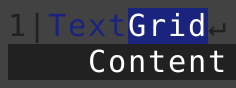
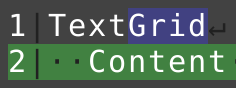
More readable textgrid

diff --git a/_gen/genwidgets.go b/_gen/genwidgets.go
@@ -66,11 +66,9 @@ func makeDrawList() []drawItem {
 
 func makeTextGrid() *widget.TextGrid {
 	grid := widget.NewTextGridFromString("TextGrid\n  Content  ")
-	grid.SetStyleRange(0, 0, 0, 3,
-		&widget.CustomTextGridStyle{FGColor: theme.PrimaryColor()})
 	grid.SetStyleRange(0, 4, 0, 7,
-		&widget.CustomTextGridStyle{BGColor: theme.PrimaryColor()})
-	grid.Rows[1].Style = &widget.CustomTextGridStyle{BGColor: theme.ButtonColor()}
+		&widget.CustomTextGridStyle{BGColor: &color.NRGBA{R: 64, G: 64, B: 192, A: 128}})
+	grid.Rows[1].Style = &widget.CustomTextGridStyle{BGColor: &color.NRGBA{R: 64, G: 192, B: 64, A: 128}}
 
 	grid.ShowLineNumbers = true
 	grid.ShowWhitespace = true
